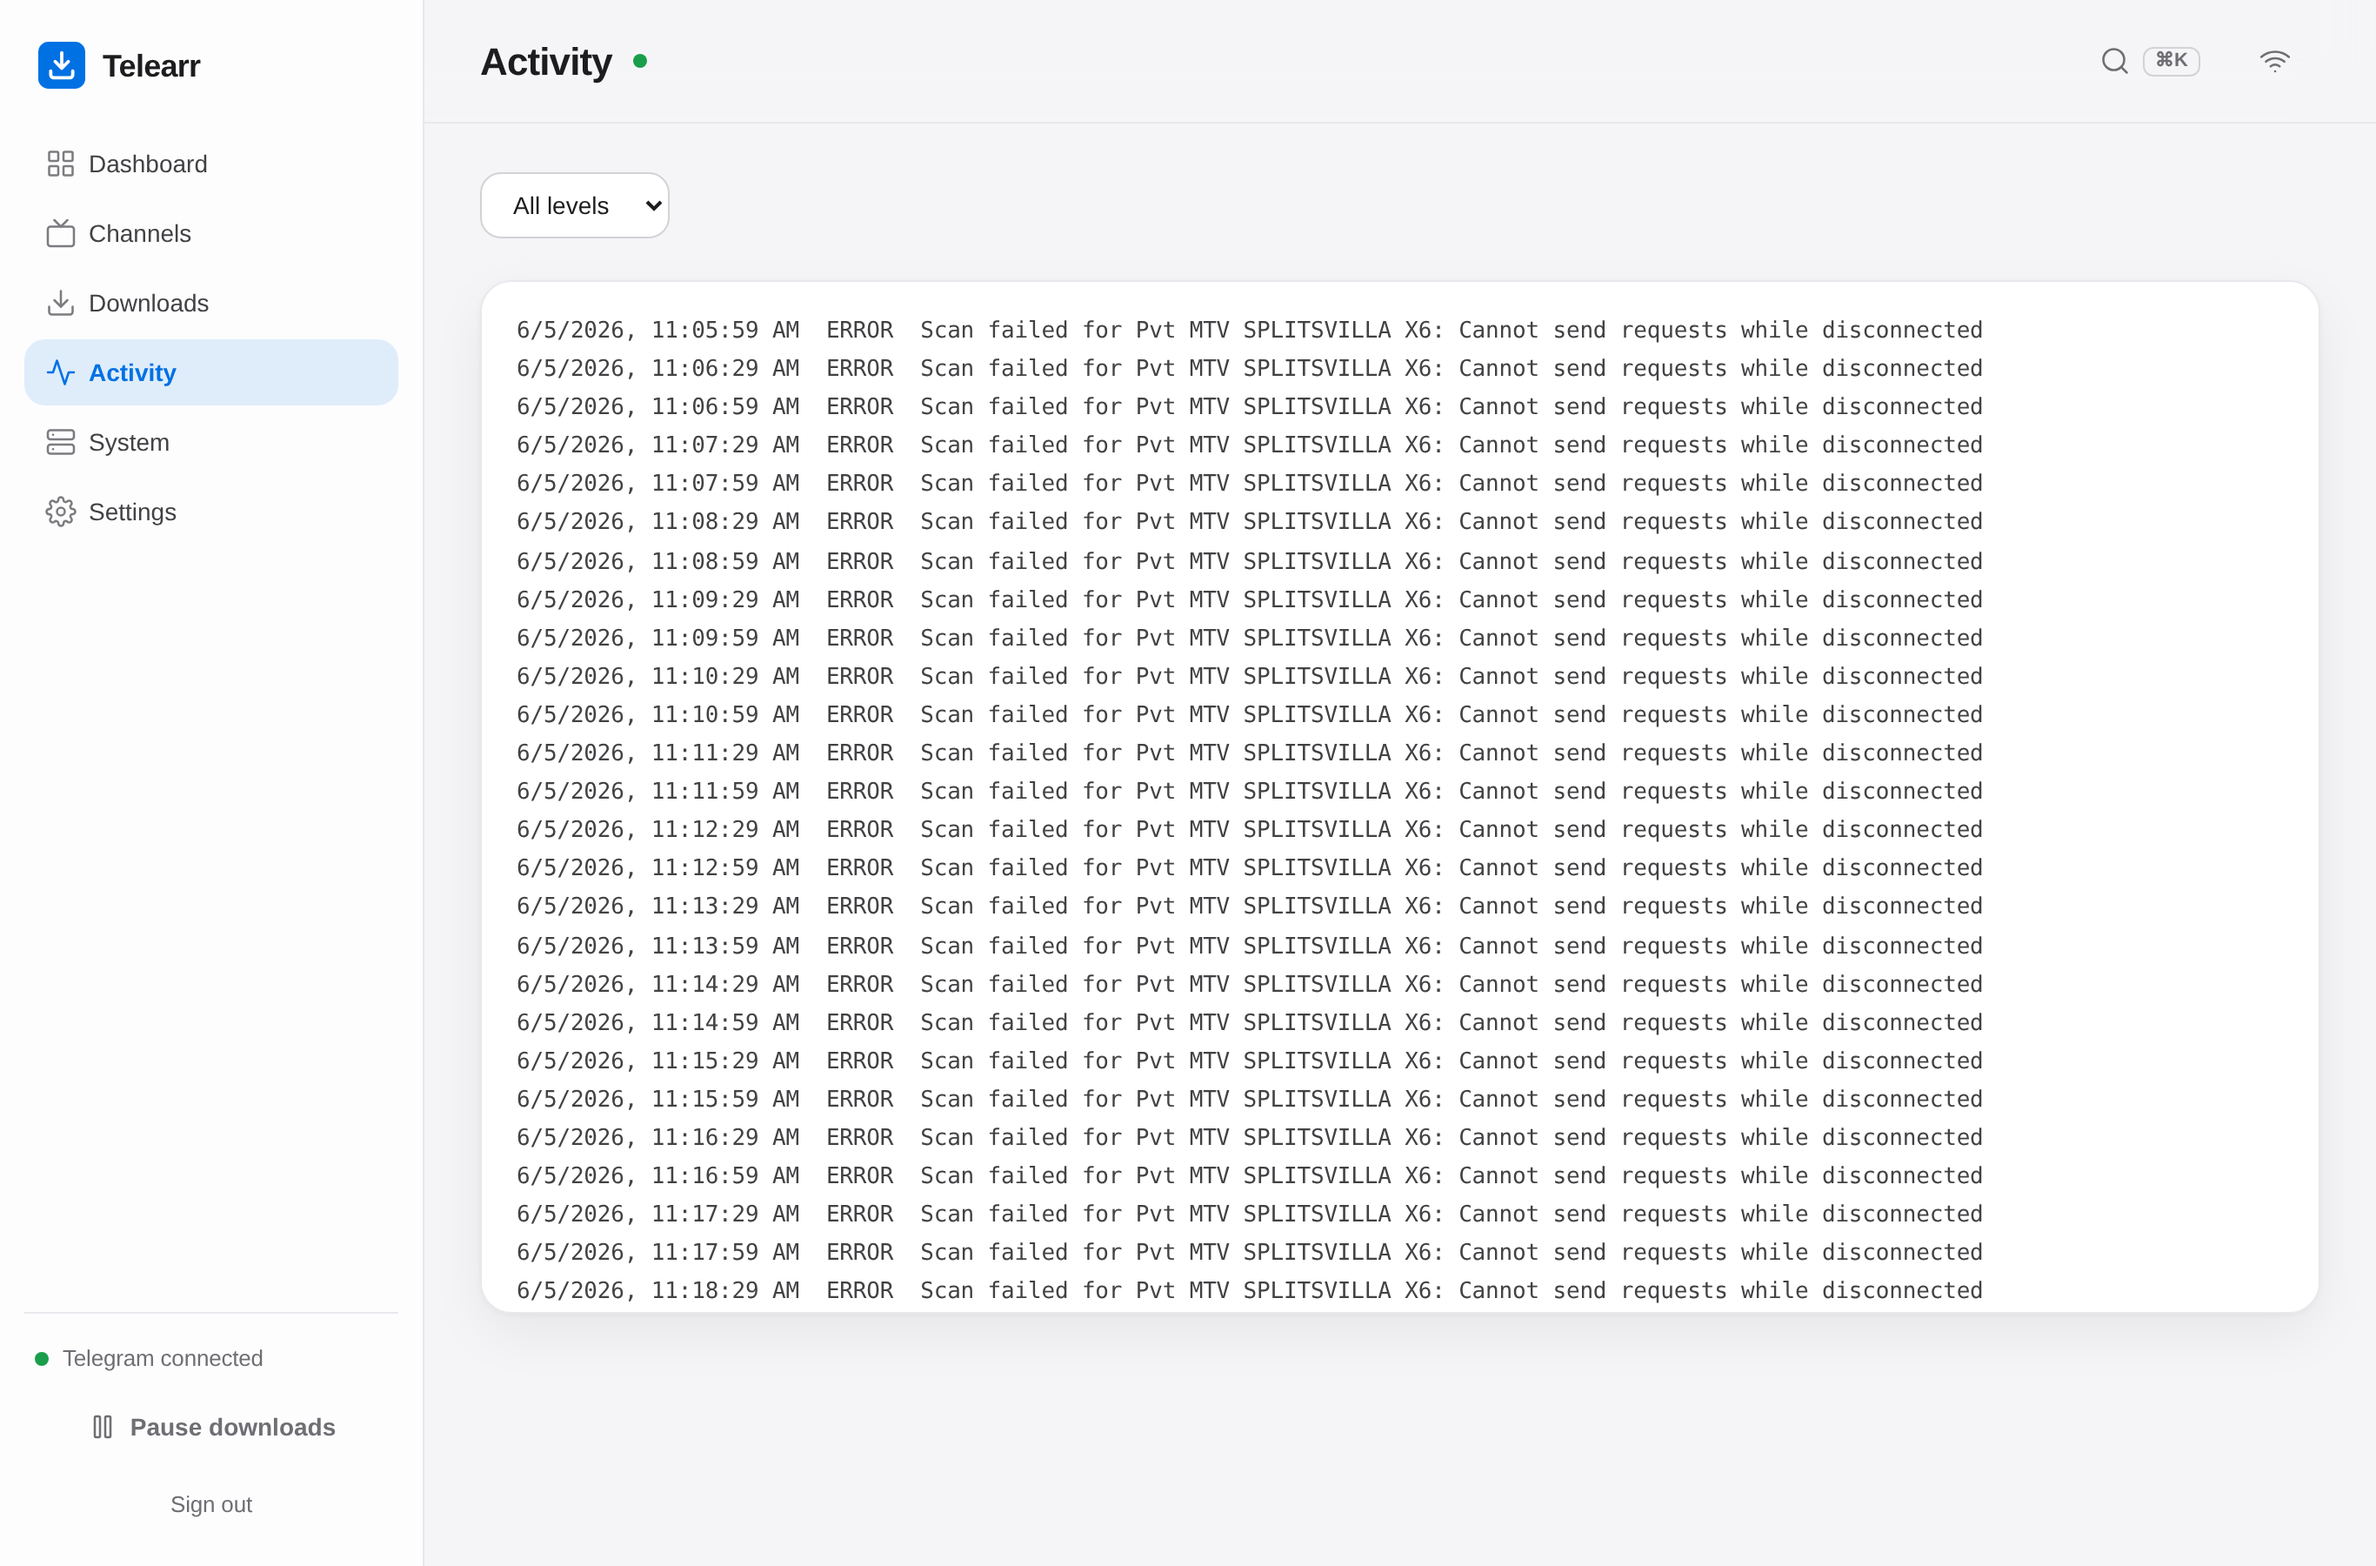
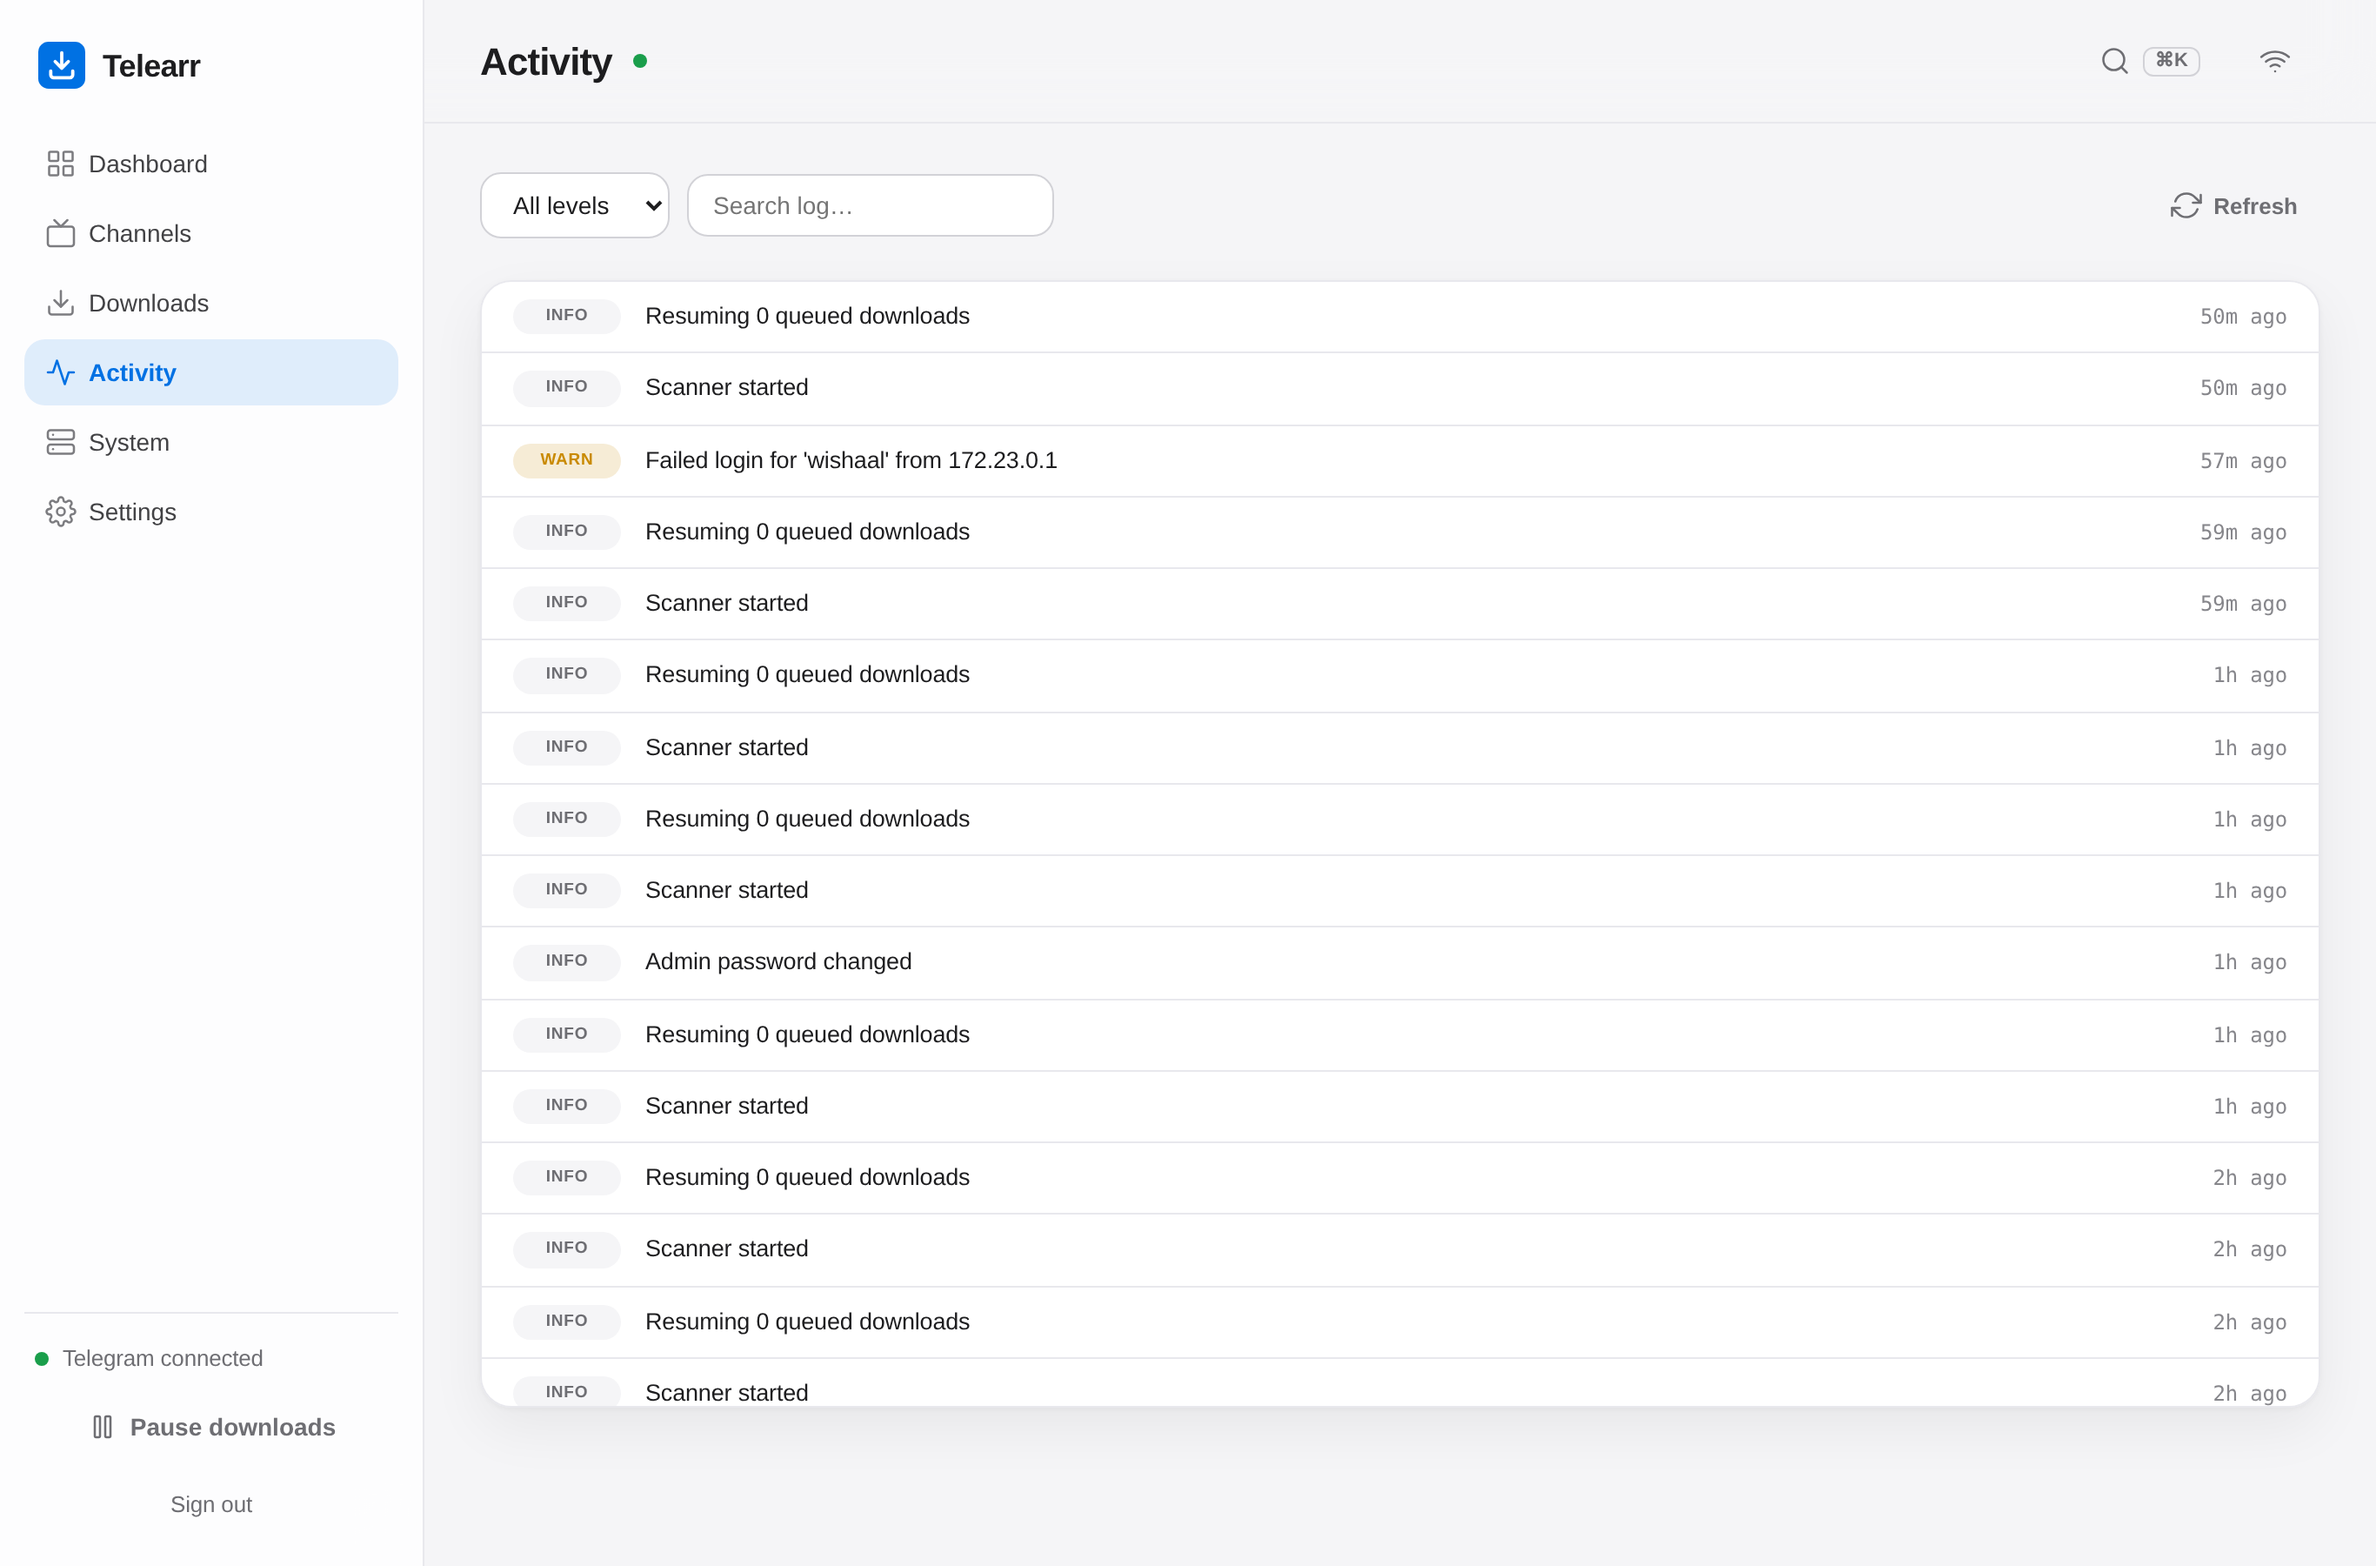
design: structured Activity log (severity badges, dedupe, search)
Replace the raw monospace text dump with structured rows: colour-coded level
badges (error/warn/info), the message, and a relative timestamp. Collapse
consecutive identical entries into one row with a x N count so a repeating
error can't bury the rest of the log. Add a text search alongside the level
filter, plus a Refresh button.

diff --git a/app/static/js/views.js b/app/static/js/views.js
@@ -346,19 +346,40 @@ export function viewDownloads(ctx) {
 export const liveActive = (ctx) => activeList(ctx.data.downloads, ctx);
 
 // ── Activity (logs) ──
+function logRow(l) {
+  const cls = l.level === "ERROR" ? "lg-error" : l.level === "WARN" ? "lg-warn" : "lg-info";
+  return h("div", { class: "log-row" },
+    h("span", { class: "lg-badge " + cls }, l.level),
+    h("span", { class: "lg-msg" }, l.message,
+      l.count > 1 ? h("span", { class: "lg-count", title: `${l.count} times` }, "×" + l.count) : null),
+    h("span", { class: "lg-time mono", title: new Date(l.ts * 1000).toLocaleString() }, fmtWhen(l.ts)));
+}
 export function viewActivity(ctx) {
-  const pre = h("pre", { id: "logs" }, "Loading…");
+  const list = h("div", { class: "log-list", id: "log-list" }, h("div", { class: "empty" }, "Loading…"));
   const lvlSel = h("select", { class: "mini", onChange: () => load() },
     ...[["", "All levels"], ["ERROR", "Errors"], ["WARN", "Warnings"], ["INFO", "Info"]].map(([v, l]) => h("option", { value: v }, l)));
+  const search = h("input", { class: "mini", type: "search", placeholder: "Search log…", oninput: () => load() });
   async function load() {
-    const rows = await api("/api/logs?limit=300"); if (!rows) return;
-    const lvl = lvlSel.value;
-    const txt = rows.filter((l) => !lvl || l.level === lvl).reverse()
-      .map((l) => `${new Date(l.ts * 1000).toLocaleString()}  ${l.level.padEnd(5)}  ${l.message}`).join("\n");
-    pre.textContent = txt || "No log entries.";
+    const rows = await api("/api/logs?limit=500"); if (!rows) return;
+    const lvl = lvlSel.value, q = search.value.trim().toLowerCase();
+    const filtered = rows.filter((l) => (!lvl || l.level === lvl) && (!q || l.message.toLowerCase().includes(q)));
+    // Collapse consecutive identical entries into one row with a ×N count —
+    // otherwise a repeating error (e.g. every 30s) buries everything else.
+    const grouped = [];
+    for (const l of filtered) {
+      const last = grouped[grouped.length - 1];
+      if (last && last.level === l.level && last.message === l.message) { last.count++; last.ts = Math.max(last.ts, l.ts); }
+      else grouped.push({ ...l, count: 1 });
+    }
+    mount(list, grouped.length
+      ? h("div", {}, ...grouped.map(logRow))
+      : h("div", { class: "empty" }, "No matching log entries."));
   }
   load();
-  return h("div", { class: "stack" }, h("div", { class: "log-toolbar" }, lvlSel), pre);
+  const refresh = h("button", { class: "btn ghost sm", onClick: () => load() }, h("span", { html: icon("refresh") }), "Refresh");
+  return h("div", { class: "stack" },
+    h("div", { class: "log-toolbar" }, lvlSel, search, h("span", { class: "spacer", style: "flex:1" }), refresh),
+    list);
 }
 
 // ── System ──

diff --git a/app/static/app.css b/app/static/app.css
@@ -196,10 +196,22 @@ body.dense .data-card th, body.dense .data-card td, body.dense .grp-body td { pa
 .grp-meta { color: var(--muted); font-size: 13px; margin-left: auto; margin-right: 8px; }
 .grp-body { border-top: 1px solid var(--line-soft); }
 
-/* logs */
-.log-toolbar { margin-bottom: 4px; }
-pre#logs { max-height: 66vh; overflow: auto; background: var(--surface); border: 1px solid var(--line-soft); border-radius: var(--radius);
-  color: var(--fg-2); font: 13px/1.7 var(--mono); margin: 0; padding: 18px 20px; box-shadow: var(--shadow); white-space: pre-wrap; word-break: break-word; }
+/* logs — structured, severity-coded, de-duplicated */
+.log-toolbar { display: flex; gap: 10px; align-items: center; flex-wrap: wrap; margin-bottom: 4px; }
+.log-list { background: var(--surface); border: 1px solid var(--line-soft); border-radius: var(--radius); box-shadow: var(--shadow); max-height: 72vh; overflow: auto; }
+.log-row { display: grid; grid-template-columns: 62px 1fr auto; gap: 14px; align-items: baseline; padding: 10px 18px; border-bottom: 1px solid var(--line-soft); font-size: 13.5px; }
+.log-row:last-child { border-bottom: 0; }
+.lg-badge { font-size: 9.5px; font-weight: 700; text-transform: uppercase; letter-spacing: .04em; padding: 3px 0; border-radius: var(--r-pill); text-align: center; align-self: center; }
+.lg-error { color: var(--err); background: color-mix(in srgb, var(--err) 14%, transparent); }
+.lg-warn { color: var(--warn); background: color-mix(in srgb, var(--warn) 16%, transparent); }
+.lg-info { color: var(--muted); background: var(--surface-2); }
+.lg-msg { min-width: 0; line-height: 1.5; word-break: break-word; }
+.lg-count { color: var(--muted); font: 11px var(--mono); margin-left: 8px; background: var(--surface-2); padding: 1px 7px; border-radius: var(--r-pill); }
+.lg-time { color: var(--meta); font-size: 12px; white-space: nowrap; }
+@media (max-width: 620px) {
+  .log-row { grid-template-columns: 56px 1fr; row-gap: 2px; }
+  .lg-time { grid-column: 2; }
+}
 
 /* settings */
 .settings-grid { display: grid; gap: var(--sp); max-width: 780px; }
